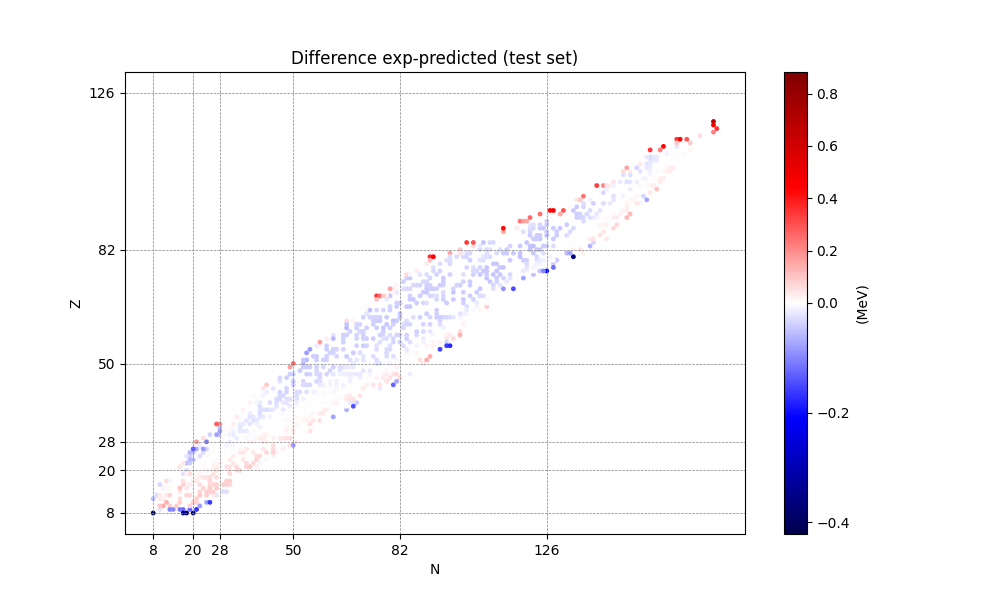
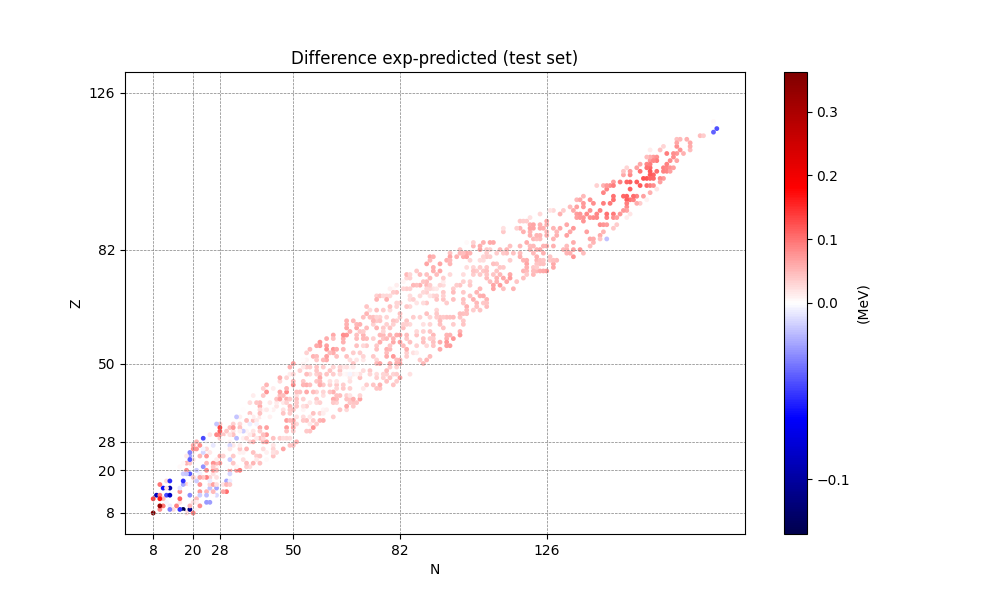
CNN-I3 code optimized

diff --git a/CNN-I3.py b/CNN-I3.py
@@ -13,16 +13,16 @@ print('Training on:', device)
 
 csv_file = 'data/mass2016_cleaned.csv'  
 data = pd.read_csv(csv_file, delimiter=';')
+data_feature = 'bind_ene'
 
-def create_5x5_neighborhood(data, idx):
+def create_5x5_neighborhood(data, idx, data_feature):
     current_n = data.iloc[idx]['N'] #Data for the target nucleus. 'idx'=row and 'N'=column
     current_z = data.iloc[idx]['Z']
     
     z_grid = np.zeros((5, 5))
     n_grid = np.zeros((5, 5))
-    bind_ene_grid = np.zeros((5, 5))
-    
-    bind_ene_values = []
+    data_feature_grid = np.zeros((5, 5))
+    data_feature_list = []
     
     for i in range(-2, 3): #The neighbourhood is defined from -2 to 2, 0 being the central value
         for j in range(-2, 3):
@@ -34,29 +34,30 @@ def create_5x5_neighborhood(data, idx):
             n_grid[i+2, j+2] = neighbor_n  
 
             if len(neighbor_idx) > 0: #Verify if any index has been found
-                bind_ene_value = data.iloc[neighbor_idx[0]]['M_N_exp']
-                bind_ene_grid[i + 2, j + 2] = bind_ene_value
-                bind_ene_values.append(bind_ene_value)
+                data_feature_value = data.iloc[neighbor_idx[0]][data_feature]
+                data_feature_grid[i + 2, j + 2] = data_feature_value
+                data_feature_list.append(data_feature_value)
             else:
-                bind_ene_grid[i + 2, j + 2] = np.nan 
+                data_feature_grid[i + 2, j + 2] = np.nan 
 
-    if bind_ene_values:
-        neighborhood_mean = np.mean(bind_ene_values)
+    if data_feature_list:
+        neighborhood_mean = np.mean(data_feature_list)
     else:
+        print('Warning: data feature list is empty. Proceeding with neighborhood_mean = 0')
         neighborhood_mean = 0
 
-    bind_ene_grid[np.isnan(bind_ene_grid)] = neighborhood_mean
-    bind_ene_grid[2, 2] = 0 #Target nucleus assigned to zero
-    return z_grid, n_grid, bind_ene_grid
+    data_feature_grid[np.isnan(data_feature_grid)] = neighborhood_mean
+    data_feature_grid[2, 2] = 0 #Target nucleus assigned to zero
+    return z_grid, n_grid, data_feature_grid
 
 inputs = [] #3x5x5 matrices of inputs
 targets = [] #Binding energies of the target nucleus
 
 for idx in range(len(data)):
-    z_grid, n_grid, bind_ene_grid = create_5x5_neighborhood(data, idx)
-    input_grid = np.stack([z_grid, n_grid, bind_ene_grid], axis=0)
+    z_grid, n_grid, data_feature_grid = create_5x5_neighborhood(data, idx, data_feature)
+    input_grid = np.stack([z_grid, n_grid, data_feature_grid], axis=0)
     inputs.append(input_grid)
-    target_value = data.iloc[idx]['M_N_exp']
+    target_value = data.iloc[idx][data_feature]
     targets.append(target_value)
 
 inputs_tensor = torch.tensor(np.array(inputs), dtype=torch.float32).to(device) #shape: (n, 3, 5, 5) where 'n' is the number of nucleus
@@ -82,54 +83,73 @@ class CNN_I3(nn.Module):
         x = self.fc(x)
         return x
 
+def save_model(model, best_model_state, best_test_rmse, best_epoch, num_epochs):
+    if best_model_state is not None:
+            torch.save(best_model_state, f'cnn_i3_best_model.pt')
+            print(f'Best RMSE: {best_test_rmse:.4f}MeV found in epoch {best_epoch}')
+    else:
+        torch.save(model.state_dict(), f'cnn_i3_model_{num_epochs}_epochs.pt')
+        print('Best model not found. Saving last model')
+    return
+
+
+def load_model(model, best_model_state, best_test_rmse, best_epoch, num_epochs):
+    if best_model_state is not None:
+        model.load_state_dict(best_model_state)
+        print(f'Model loaded from epoch {best_epoch} with RMSE: {best_test_rmse:.4f} MeV')
+    else:
+        model.load_state_dict(torch.load(f'cnn_i3_model_{num_epochs}_epochs.pt'))
+        print('Best model not found. Loading last model')
+    return
+
+
+def train_model(model, train_inputs, train_targets, test_inputs, test_targets, num_epochs=3000, learning_rate=0.005):
+    criterion = nn.MSELoss() #Instance of the MSE
+    optimizer = optim.Adamax(model.parameters(), lr=learning_rate) #model.parameters()=weights and biases to optimize
+    #lr=how much to adjust the model's parameters with respect to the loss gradient in each epoch.
+    #Adam=adaptative moment estimation. It calculates a separate learning rate for each parameter
+
+    print(f'Total number of parameters:', sum(p.numel() for p in model.parameters() if p.requires_grad))
+    #p.numel() counts the number of elements that has every tensor. 
+    #We only count those which are used for training (requires_grad=True).
+
+    train_loss_rmse_values = []
+    test_loss_rmse_values = []
+    best_test_rmse = float('inf')
+    best_model_state = None
+    best_epoch = 0
+
+    for epoch in range(num_epochs):
+        model.train()
+        optimizer.zero_grad() #Reset of gradients to zero to avoid accumulation from previous runs
+        train_outputs = model(train_inputs.to(device))
+        train_loss = criterion(train_outputs, train_targets)
+        train_loss.backward() #Gradients of the loss with respect to model parameters using backpropagation
+        optimizer.step() #We update the model parameters using the calculated gradients
+        train_loss_rmse = torch.sqrt(train_loss)
+        train_loss_rmse_values.append(train_loss_rmse.item())
+        print(f'Epoch [{epoch+1}/{num_epochs}], Training Loss: {train_loss_rmse.item()}')
+
+        model.eval()
+        with torch.no_grad(): #We disable gradient calculation for the test phase
+            test_outputs = model(test_inputs.to(device))
+            test_loss_mse = criterion(test_outputs, test_targets)
+            test_loss_rmse = torch.sqrt(test_loss_mse)
+            test_loss_rmse_values.append(test_loss_rmse.item())
+        print(f'Epoch [{epoch+1}/{num_epochs}], Test Loss    : {test_loss_rmse.item()}')
+
+        if test_loss_rmse.item() < best_test_rmse:
+            best_test_rmse = test_loss_rmse.item()
+            best_model_state = model.state_dict()
+            best_epoch = epoch + 1
+
+    save_model(model, best_model_state, best_test_rmse, best_epoch, num_epochs)
+    return train_loss_rmse_values, test_loss_rmse_values, num_epochs, best_test_rmse, best_epoch
+
 
 model = CNN_I3().to(device) #Instance of our model
-criterion = nn.MSELoss() #Instance of the MSE
-optimizer = optim.Adamax(model.parameters(), lr=0.005) #model.parameters()=weights and biases to optimize
-#lr=how much to adjust the model's parameters with respect to the loss gradient in each epoch.
-#Adam=adaptative moment estimation. It calculates a separate learning rate for each parameter
-
-print(f'Total number of parameters:', sum(p.numel() for p in model.parameters() if p.requires_grad))
-#p.numel() counts the number of elements that has every tensor. 
-#We only count those which are used for training (requires_grad=True).
-
-train_loss_rmse_values = []
-test_loss_rmse_values = []
-best_test_rmse = float('inf')
-best_model_state = None
-best_epoch = 0
-
-num_epochs = 3000
-for epoch in range(num_epochs):
-    model.train()
-    optimizer.zero_grad() #Reset of gradients to zero to avoid accumulation from previous runs
-    train_outputs = model(train_inputs.to(device))
-    train_loss = criterion(train_outputs, train_targets)
-    train_loss.backward() #Gradients of the loss with respect to model parameters using backpropagation
-    optimizer.step() #We update the model parameters using the calculated gradients
-    train_loss_rmse = torch.sqrt(train_loss)
-    train_loss_rmse_values.append(train_loss_rmse.item())
-    print(f'Epoch [{epoch+1}/{num_epochs}], Training Loss: {train_loss_rmse.item()}')
-
-    model.eval()
-    with torch.no_grad(): #We disable gradient calculation for the test phase
-        test_outputs = model(test_inputs.to(device))
-        test_loss_mse = criterion(test_outputs, test_targets)
-        test_loss_rmse = torch.sqrt(test_loss_mse)
-        test_loss_rmse_values.append(test_loss_rmse.item())
-    print(f'Epoch [{epoch+1}/{num_epochs}], Test Loss    : {test_loss_rmse.item()}')
-
-    if test_loss_rmse.item() < best_test_rmse:
-        best_test_rmse = test_loss_rmse.item()
-        best_model_state = model.state_dict()
-        best_epoch = epoch + 1
-
-if best_model_state is not None:
-    torch.save(best_model_state, f'cnn_i3_best_model.pt')
-    print(f'Best RMSE: {best_test_rmse:.4f}MeV found in epoch {best_epoch}')
-else:
-    torch.save(model.state_dict(), f'cnn_i3_model_{num_epochs}_epochs.pt')
-    print('Best model not found. Saving last model')
+train_loss_rmse_values, test_loss_rmse_values, num_epochs, best_test_rmse, best_epoch = train_model(
+    model, train_inputs, train_targets, test_inputs, test_targets)
 
 
 plt.figure(figsize=(10, 5))
@@ -146,15 +166,8 @@ plt.savefig(f'CNN-I3 plots/CNN-I3_evolution.png')
 plt.show()
 
 
-if best_model_state is not None:
-    model.load_state_dict(best_model_state)
-    print(f'Model loaded from epoch {best_epoch} with RMSE: {best_test_rmse:.4f} MeV')
-else:
-    model.load_state_dict(torch.load(f'cnn_i3_model_{num_epochs}_epochs.pt'))
-    print('Best model not found. Loading last model')
 
-
-def calculate_and_plot_differences(data, inputs, targets, indices, model, device, title, file_name):
+def plot_differences(data, inputs, targets, indices, model, device, title, file_name):
     model.eval() 
     with torch.no_grad():
         outputs = model(inputs.to(device)).cpu().numpy()
@@ -164,8 +177,7 @@ def calculate_and_plot_differences(data, inputs, targets, indices, model, device
     scatter_data = pd.DataFrame({
         'N': data.iloc[indices]['N'].values,
         'Z': data.iloc[indices]['Z'].values,
-        'diff': diff.flatten()
-    })
+        'diff': diff.flatten()})
 
     plt.figure(figsize=(10, 6))
 
@@ -177,7 +189,6 @@ def calculate_and_plot_differences(data, inputs, targets, indices, model, device
         vmin, vmax = color_limits_storage['color_limits']
 
     norm = TwoSlopeNorm(vmin=vmin, vcenter=0, vmax=vmax)
-    
     scatter = plt.scatter(scatter_data['N'], scatter_data['Z'], c=scatter_data['diff'],
                           cmap='seismic', norm=norm, edgecolor='None', s=12)
     cbar = plt.colorbar(scatter)
@@ -193,16 +204,18 @@ def calculate_and_plot_differences(data, inputs, targets, indices, model, device
     plt.title(title)
     plt.savefig(file_name)
     plt.show()
+    return
+
 
 color_limits_storage = {}
-calculate_and_plot_differences(data, inputs_tensor, targets_tensor, range(len(data)), model, device,
-                               'Difference exp-predicted (all data)', 'CNN-I3 plots/CNN-I3_diff_scatter.png')
+plot_differences(data, inputs_tensor, targets_tensor, range(len(data)), model, device,
+                'Difference exp-predicted (all data)', 'CNN-I3 plots/CNN-I3_diff_scatter.png')
 
-calculate_and_plot_differences(data, train_inputs, train_targets, train_indices, model, device,
-                               'Difference exp-predicted (training set)', 'CNN-I3 plots/CNN-I3_diff_scatter_train.png')
+plot_differences(data, train_inputs, train_targets, train_indices, model, device,
+                'Difference exp-predicted (training set)', 'CNN-I3 plots/CNN-I3_diff_scatter_train.png')
 
-calculate_and_plot_differences(data, test_inputs, test_targets, test_indices, model, device,
-                               'Difference exp-predicted (test set)', 'CNN-I3 plots/CNN-I3_diff_scatter_test.png')
+plot_differences(data, test_inputs, test_targets, test_indices, model, device,
+                'Difference exp-predicted (test set)', 'CNN-I3 plots/CNN-I3_diff_scatter_test.png')
 
 
 n_splits = 5  
@@ -217,40 +230,12 @@ for fold, (train_idx, test_idx) in enumerate(kf.split(inputs_tensor)):
     train_inputs, test_inputs = inputs_tensor[train_idx], inputs_tensor[test_idx]
     train_targets, test_targets = targets_tensor[train_idx], targets_tensor[test_idx]
     model = CNN_I3().to(device)
-    optimizer = optim.Adamax(model.parameters(), lr=0.002)
-    best_test_rmse = float('inf')
-    best_model_state = None
-    best_epoch = 0
-    train_loss_rmse_values = []
-    test_loss_rmse_values = []
 
-    num_epochs = 1000
-    for epoch in range(num_epochs):
-        model.train()
-        optimizer.zero_grad() 
-        train_outputs = model(train_inputs.to(device))
-        train_loss = criterion(train_outputs, train_targets)
-        train_loss.backward() 
-        optimizer.step() 
-        train_loss_rmse = torch.sqrt(train_loss)
-        train_loss_rmse_values.append(train_loss_rmse.item())
-        print(f'Epoch [{epoch+1}/{num_epochs}], Training Loss: {train_loss_rmse.item()}')
-
-        model.eval()
-        with torch.no_grad(): 
-            test_outputs = model(test_inputs.to(device))
-            test_loss_mse = criterion(test_outputs, test_targets)
-            test_loss_rmse = torch.sqrt(test_loss_mse)
-            test_loss_rmse_values.append(test_loss_rmse.item())
-        print(f'Epoch [{epoch+1}/{num_epochs}], Test Loss    : {test_loss_rmse.item()}')
-
-        if test_loss_rmse.item() < best_test_rmse:
-            best_test_rmse = test_loss_rmse.item()
-            best_model_state = model.state_dict()
-            best_epoch = epoch + 1
-
-    rmse_train_list.append(train_loss_rmse_values[-1])  
-    rmse_test_list.append(test_loss_rmse_values[-1])  
+    train_loss_rmse_values, test_loss_rmse_values, num_epochs, best_test_rmse, best_epoch = train_model(
+        model, train_inputs, train_targets, test_inputs, test_targets)
+    
+    rmse_train_list.append(min(train_loss_rmse_values))
+    rmse_test_list.append(min(test_loss_rmse_values)) 
 
     print(f"Fold {fold + 1}: Best RMSE (Test): {best_test_rmse:.4f}MeV in epoch {best_epoch}")
 
